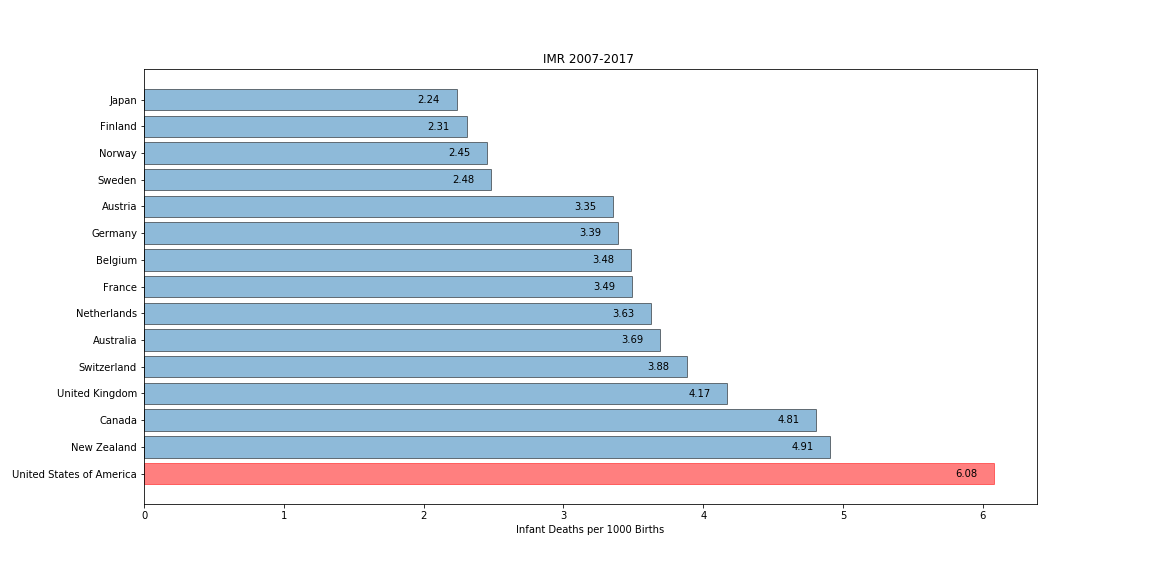
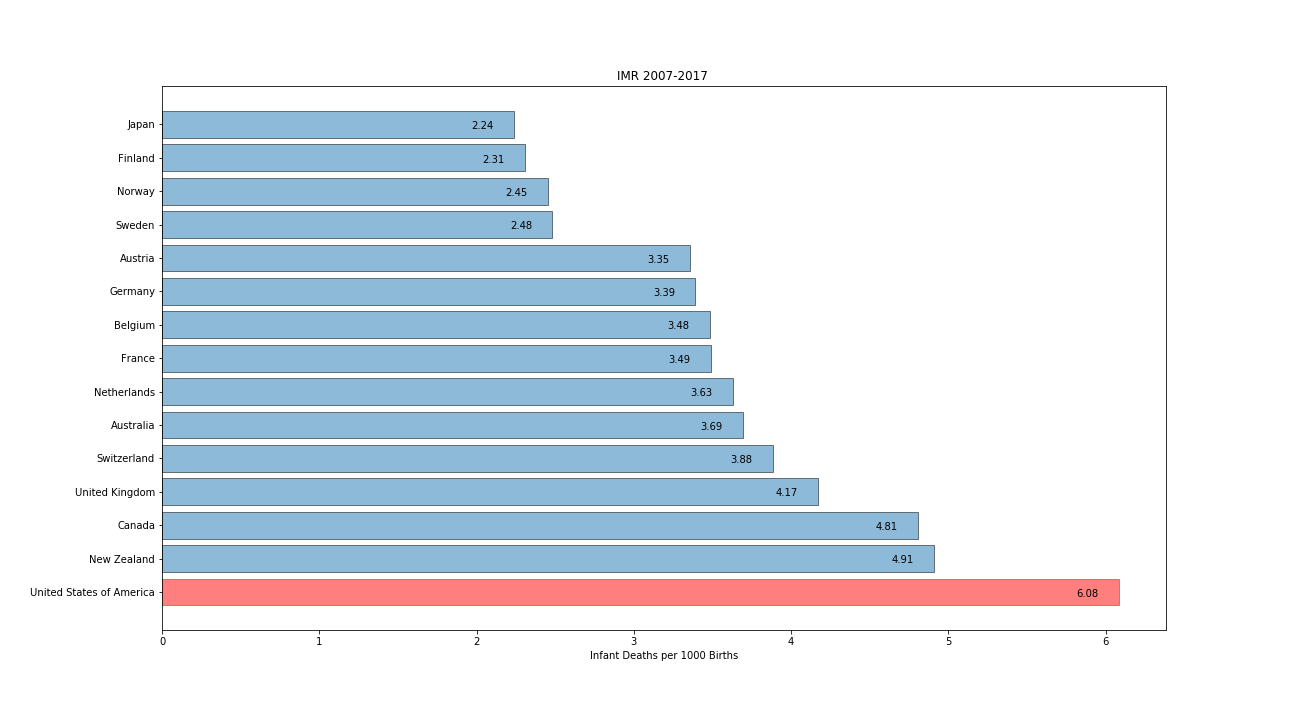
resized graph

diff --git a/IMR-jasmina.py b/IMR-jasmina.py
@@ -510,7 +510,7 @@ plotImrByCountry.head()
 # plotImrByCountry.index
 
 
-# In[177]:
+# In[178]:
 
 
 rects = plt.barh(plotImrByCountry.index, plotImrByCountry['IMR'], alpha=0.5, edgecolor='black')
@@ -526,7 +526,7 @@ for rect in rects:
          ha='center', va='bottom', color='black', rotation = 'horizontal')
     
 rects[0].set_color('red')
-plt.rcParams["figure.figsize"] = [16, 6]
+plt.rcParams["figure.figsize"] = [18, 10]
 plt.savefig("Images/imr by country.png")
 plt.show()
 
